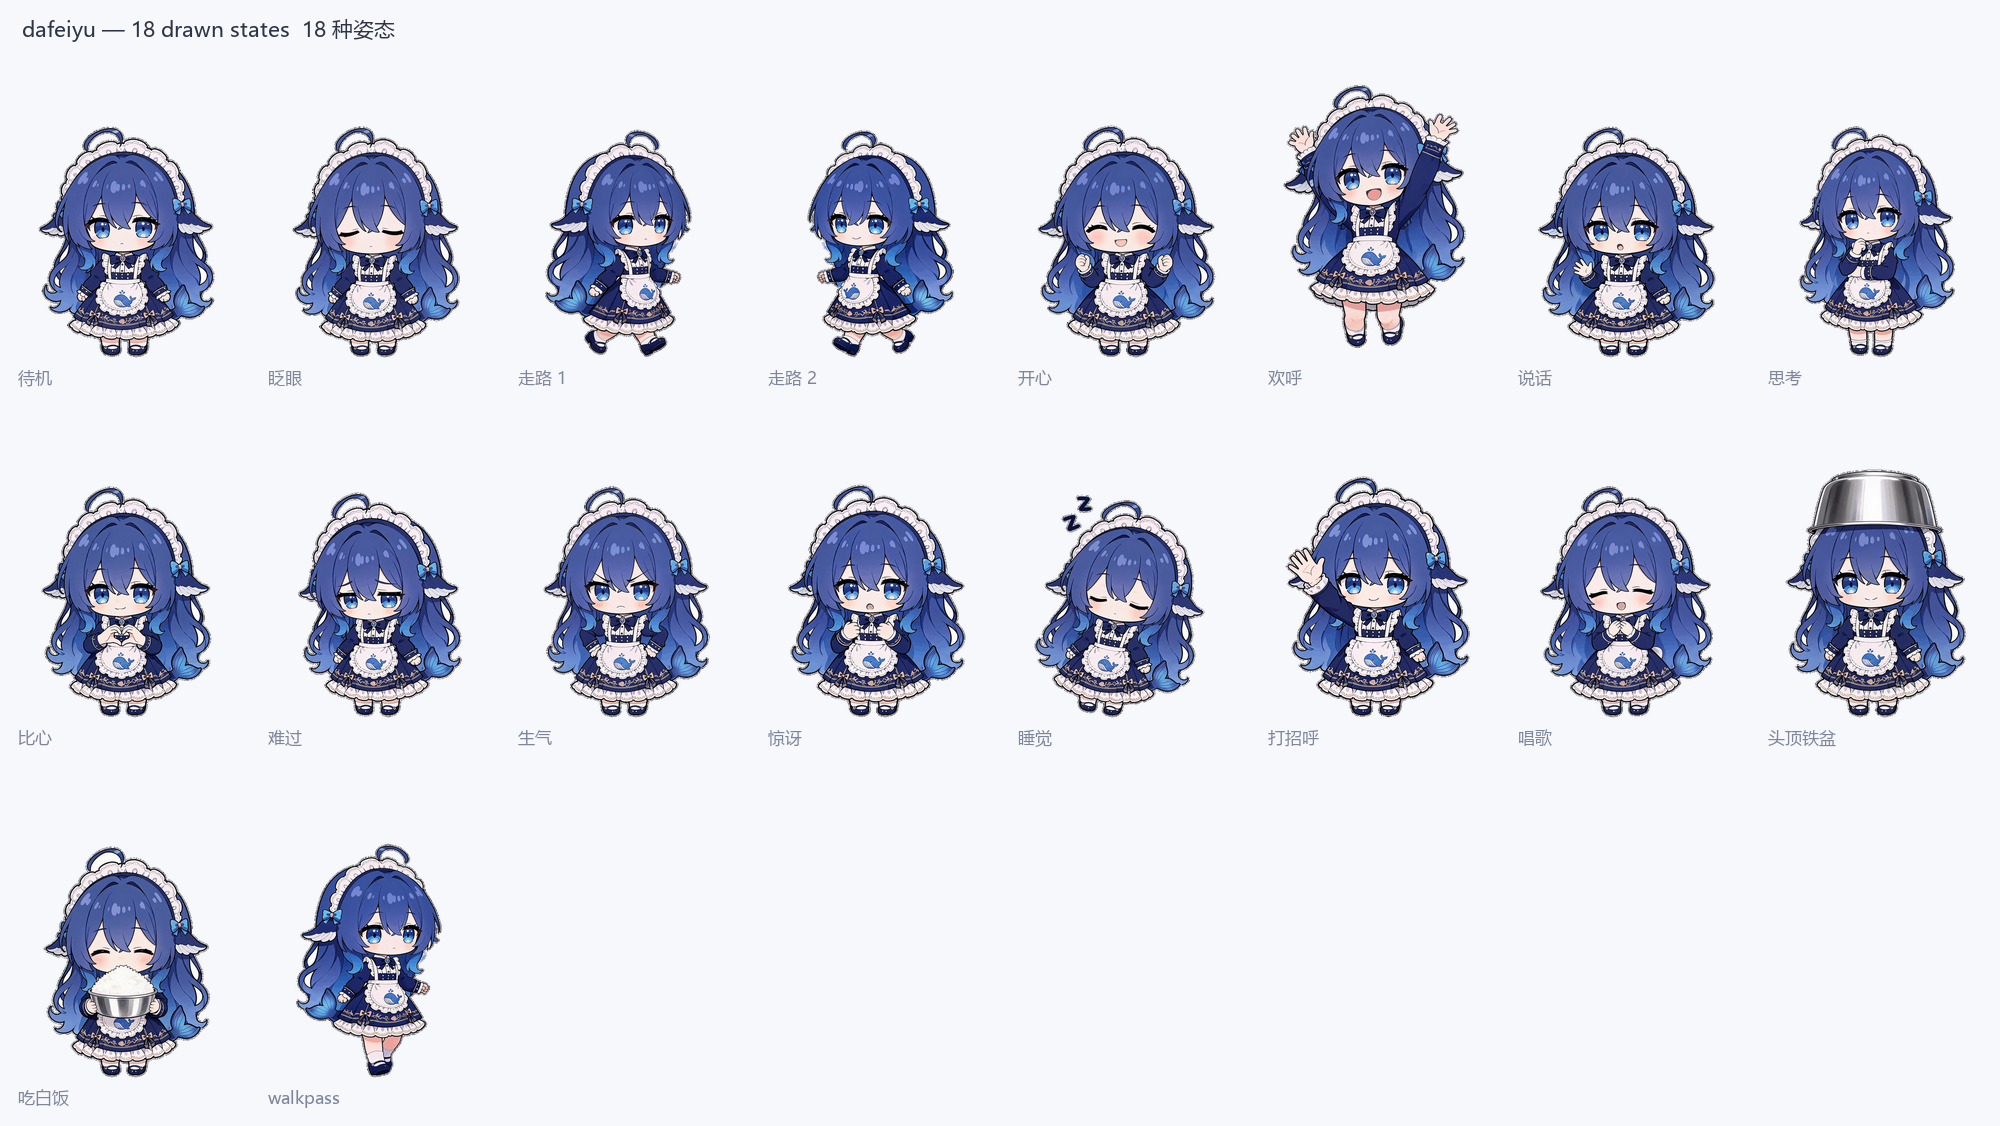
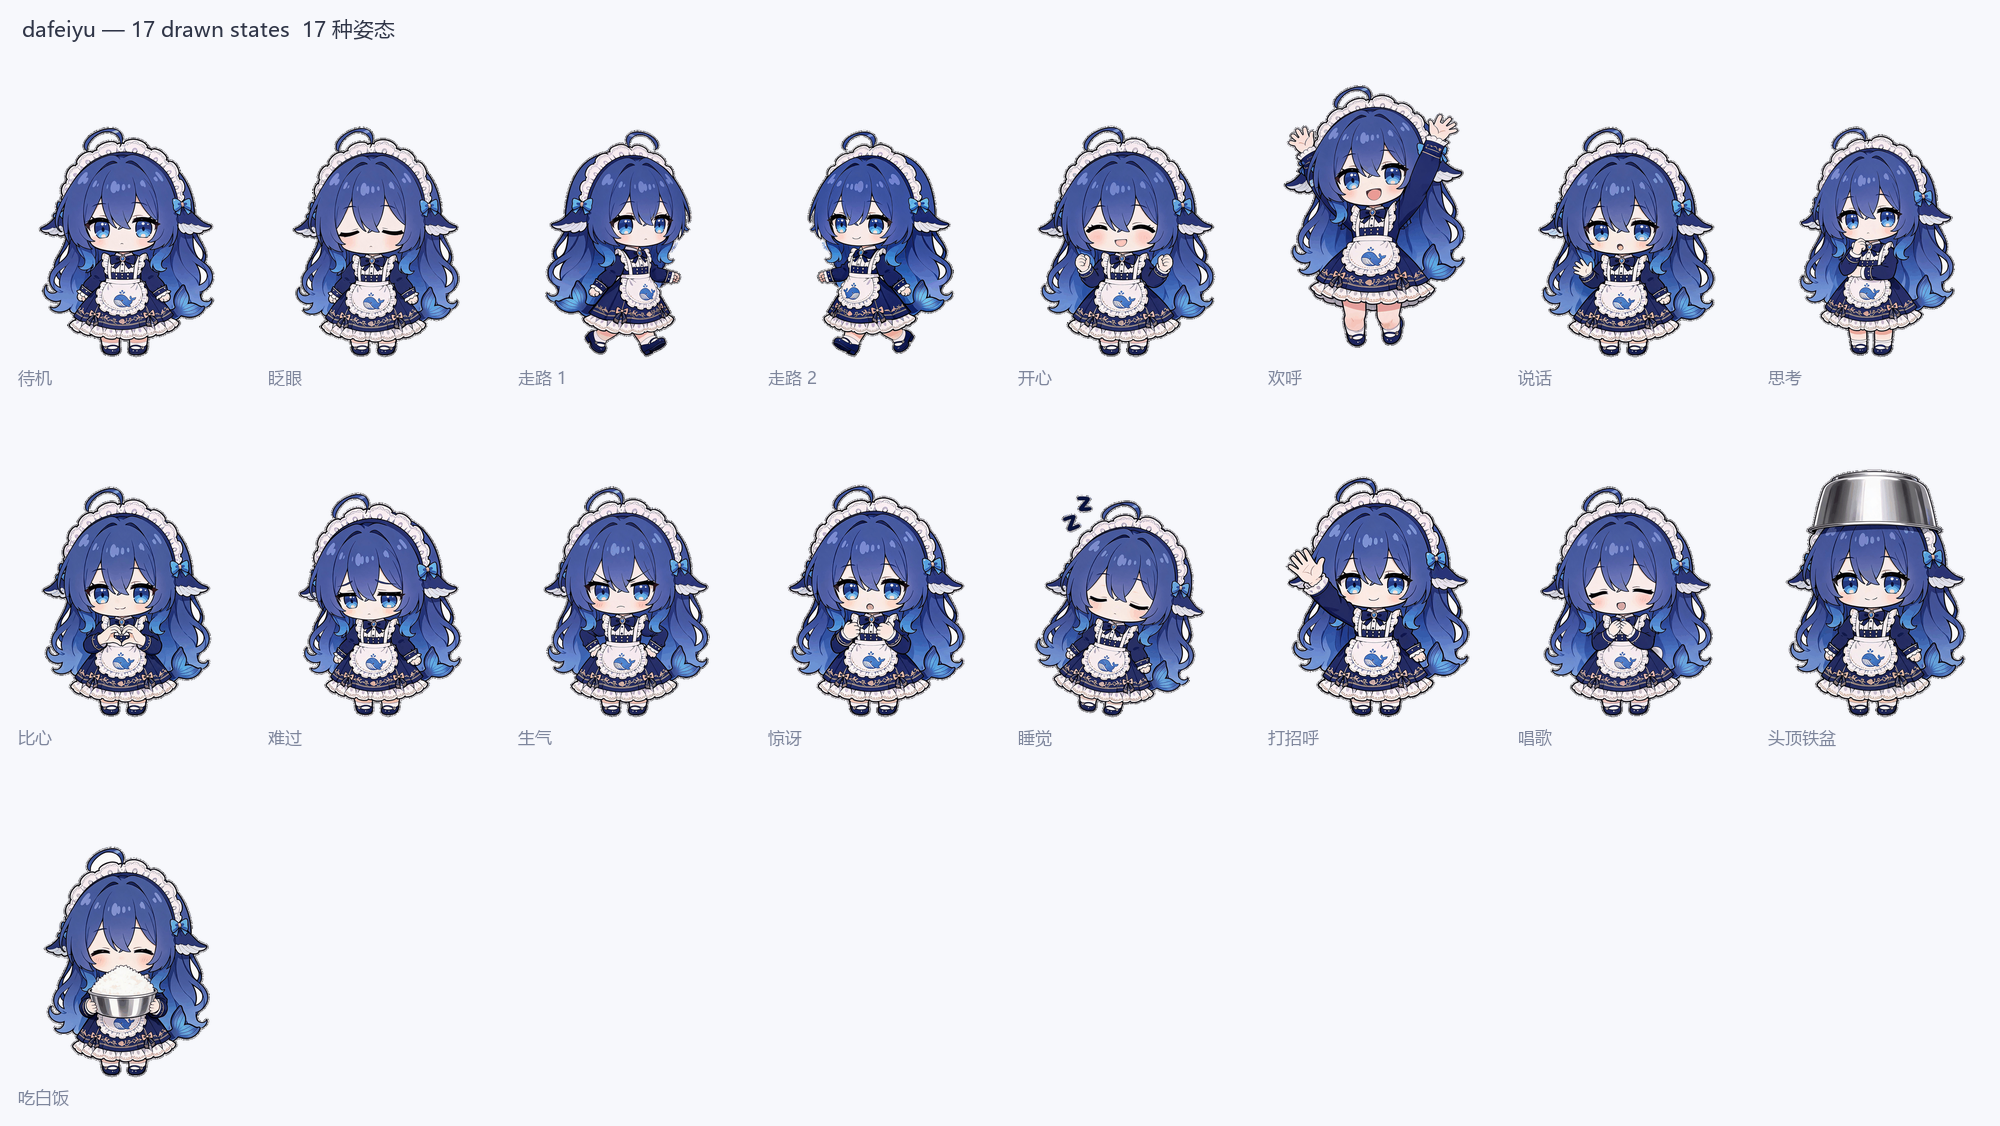
大肥鱼 — the walk actually walks now, and the gift loop is gone
Fixed: handing rice and hearts back and forth never stopped. The receiver
answered every gift it received, including the answers, so one press
started an exchange that ran for as long as the app stayed open — and a
few presses at once made the whole Harness unresponsive. A gift is now
answered exactly once, behind a rate limit and a hard ceiling on live
particles.

Fixed: a scene that interrupted another left the first one's cue timers
running, so the old subtitles kept writing over the new scene.

Fixed: the arrival greeting could pick the longest playlet, leaving both
pets unable to answer a click for fourteen seconds.

Fixed: the walk, which had two separate causes. The stride was measured
against the sprite figure instead of the canvas it sits in, so she travelled
further per step than her own legs did. And every pose was centred on the
whole figure's centroid, which follows a swinging arm — so the body slid
sideways between frames and the feet could never plant. Poses are now
anchored on the head and shoulders, and the stride is measured off the
contact frames by a script instead of guessed.

Fixed: the walk swayed. The cycle used a 'passing' frame between the two
contact frames, and that frame was drawn with the torso turned roughly 25
degrees further towards the camera than the frames either side of it — so the
whole body rotated towards the viewer and back once per step. Regenerating
it twice, the second time image-to-image from a contact frame with
[…]

Changed region(s): [[0.124, 0.746, 0.217, 0.9636], [0.124, 0.9636, 0.155, 0.9947]]

diff --git a/lib/client.js b/lib/client.js
@@ -42,7 +42,7 @@ window.__ModuleLoader__.load({
     const BGM_TRACK = 'dafeiyu'
 
     /** Every state this character was drawn in. */
-    const POSES = ["idle", "blink", "walk1", "walkpass", "walk2", "happy", "cheer", "talk", "think", "love", "sad", "angry", "surprise", "sleep", "wave", "sing", "basin", "eat"]
+    const POSES = ["idle", "blink", "walk1", "walk2", "happy", "cheer", "talk", "think", "love", "sad", "angry", "surprise", "sleep", "wave", "sing", "basin", "eat"]
 
     /** States a blink may interrupt — never mid-sentence or mid-jump. */
     const BLINKABLE = ['idle', 'walk1', 'walk2', 'think', 'love', 'sad', 'angry', 'basin', 'shh']
@@ -87,16 +87,25 @@ window.__ModuleLoader__.load({
     /**
      * The walk cycle, in the order the frames are drawn.
      *
-     * Contact, pass, contact, pass: one full cycle is two steps, and the pass
-     * frame between them is what makes a walk read as walking rather than as a
-     * sprite being dragged sideways. Every frame is held for `STEP_MS`, and the
-     * ground speed is derived from that — never the other way round. Choosing a
-     * speed and then animating the legs to taste is exactly what produces the
-     * skating look, because the feet end up moving at whatever rate the timer
-     * happened to pick.
+     * Two contact poses, alternating: right foot forward, left foot forward.
+     * There is deliberately no "passing" frame between them.
+     *
+     * A pass frame is the textbook way to draw a walk, and it was tried three
+     * times — generated afresh, then drawn image-to-image from a contact frame
+     * with everything but the legs forbidden to change. Each time the model
+     * turned the torso a good 25° further towards the camera than the frames on
+     * either side of it. Rather than the legs swinging, the whole body then
+     * rotated towards the viewer and back once per step, which reads as the
+     * character swaying left and right as it walks — far worse than a missing
+     * pass frame. Two contact frames cannot disagree about which way the body
+     * is facing, because they are drawn from the same angle.
      */
-    const WALK_CYCLE = ['walk1', 'walkpass', 'walk2', 'walkpass']
-    const STEP_MS = 165
+    const WALK_CYCLE = ['walk1', 'walk2']
+    /**
+     * How long each frame is held. A step is one frame, so the ground speed is
+     * `stride / STEP_MS` — this value is what keeps that at a walking pace.
+     */
+    const STEP_MS = 330
     const STEPS_PER_CYCLE = 2
     /**
      * How far one step carries the character, as a fraction of the sprite
@@ -138,8 +147,8 @@ window.__ModuleLoader__.load({
       '[data-dsh-pet]{font:inherit;color:var(--dsw-alias-label-primary,#e8e8ea)}',
       '.dsh-pet-bob{transform-origin:50% 100%;will-change:transform}',
       '.dsh-pet-bob[data-pose="idle"],.dsh-pet-bob[data-pose="blink"]{animation:dsh-pet-breathe 3.4s ease-in-out infinite}',
-      '.dsh-pet-bob[data-pose="walk1"],.dsh-pet-bob[data-pose="walkpass"],.dsh-pet-bob[data-pose="walk2"]'
-        + '{animation:dsh-pet-step var(--dsh-step,165ms) ease-in-out infinite}',
+      '.dsh-pet-bob[data-pose="walk1"],.dsh-pet-bob[data-pose="walk2"]'
+        + '{animation:dsh-pet-step var(--dsh-step,330ms) ease-in-out infinite}',
       '.dsh-pet-bob[data-pose="talk"]{animation:dsh-pet-talk .34s ease-in-out infinite}',
       '.dsh-pet-bob[data-pose="happy"],.dsh-pet-bob[data-pose="love"]{animation:dsh-pet-hop .62s ease-in-out infinite}',
       '.dsh-pet-bob[data-pose="cheer"]{animation:dsh-pet-hop .44s ease-in-out infinite}',

diff --git a/README.md b/README.md
@@ -23,7 +23,7 @@ network calls, no CDN, no build step, no external service.
 
 | | |
 |---|---|
-| **18 drawn states** | 包括待机、眨眼、迈步（前脚）、迈步（过渡）、迈步（后脚）、开心、欢呼、说话、思考、比心、难过、生气、惊讶、睡觉、挥手、唱歌、头顶铁盆、抱着铁盆吃白饭。 Every one is drawn from the original 大肥鱼 artwork by image-to-image, so the face, outfit and palette stay exact — only the pose changes. |
+| **17 drawn states** | 包括待机、眨眼、迈步（右脚在前）、迈步（左脚在前）、开心、欢呼、说话、思考、比心、难过、生气、惊讶、睡觉、挥手、唱歌、头顶铁盆、抱着铁盆吃白饭。 Every one is drawn from the original 大肥鱼 artwork by image-to-image, so the face, outfit and palette stay exact — only the pose changes. |
 | **It moves like a character** | A real **three-frame walk cycle** — contact, pass, contact — whose ground speed is *derived from the step cadence* rather than chosen freely, so the feet match the floor instead of skating. Plus idle **breathing**, **blinking** on an irregular cadence, hop, sway, nod, shake and squash-and-stretch. All of it CSS on top of the sprites, all of it respecting `prefers-reduced-motion`. |
 | **Physics when you grab it** | Pick it up and it dangles against the direction you drag. Let go and it **falls under gravity**, lands with a squash and a spring, and throws a puff of sparkles if the drop was a long one. Its shadow shrinks and fades while it is in the air. |
 | **Small things on its own** | Left alone it will 思考、头顶铁盆、抱着铁盆吃白饭、唱歌、欢呼、比心、生气。 Each of those is a pose, a line and sometimes a little burst of particles. |
